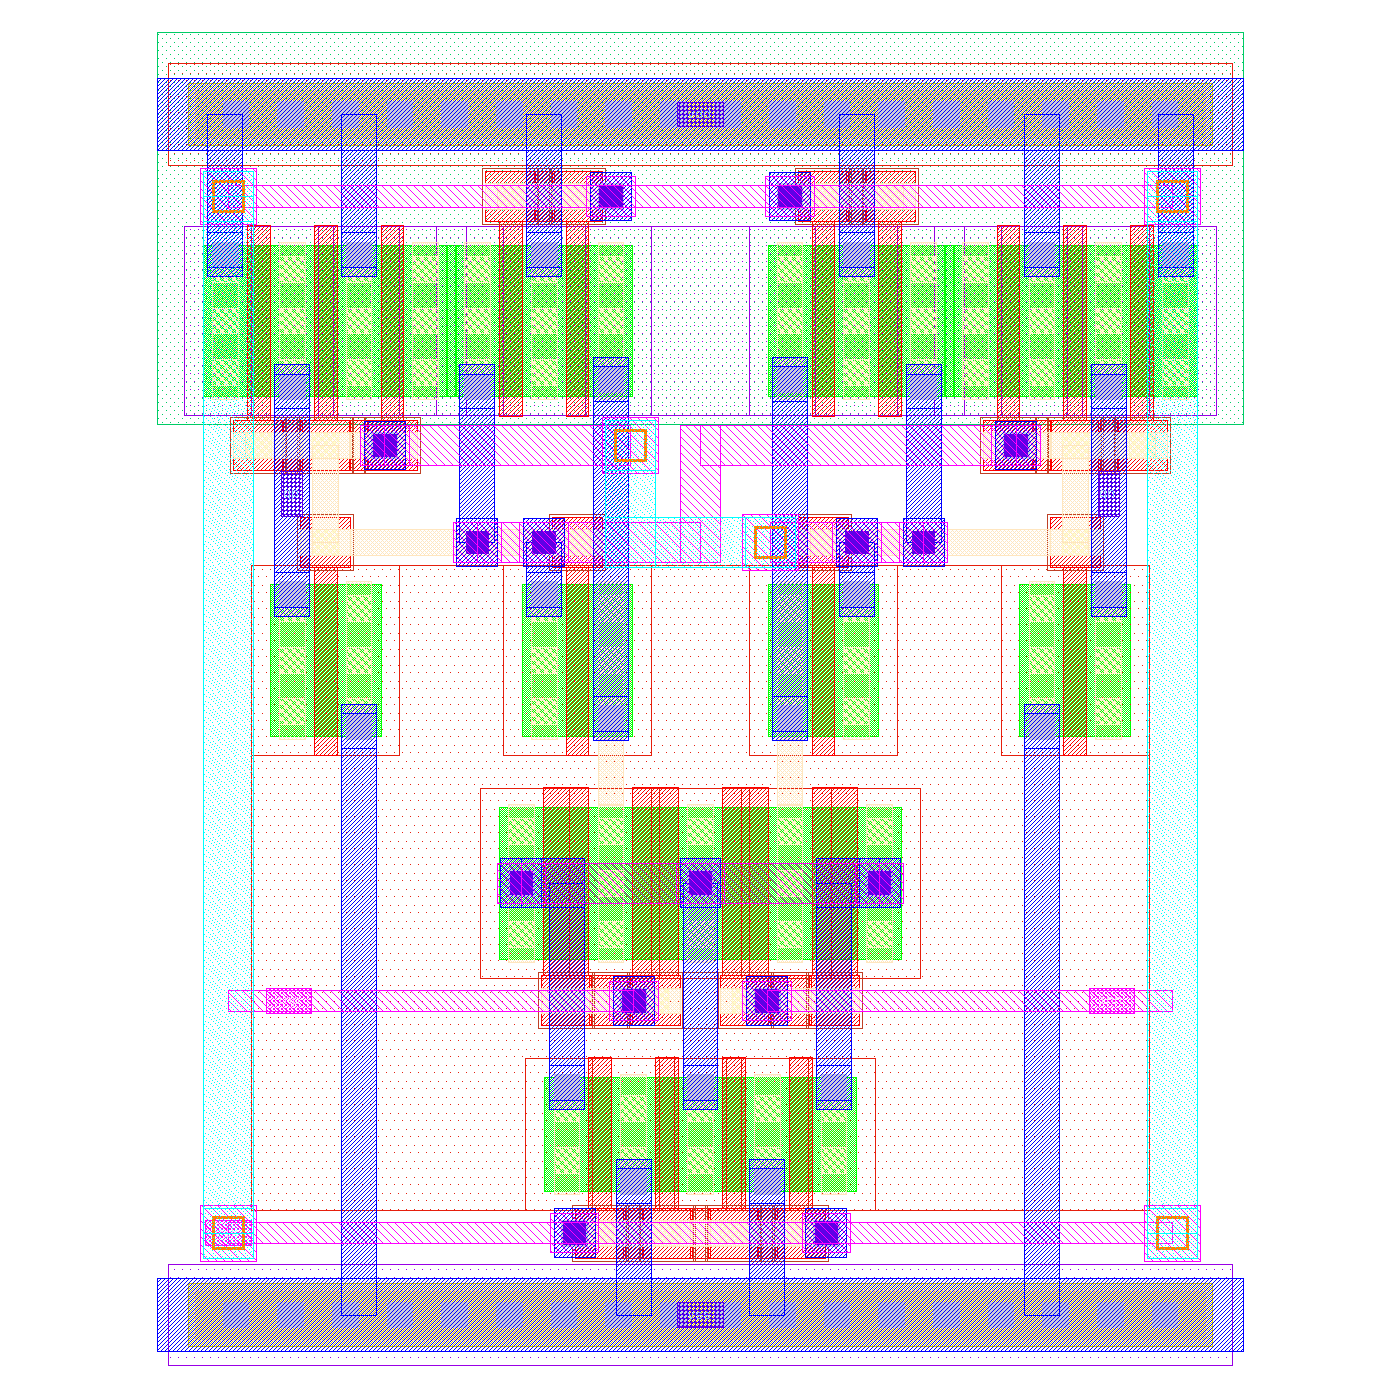
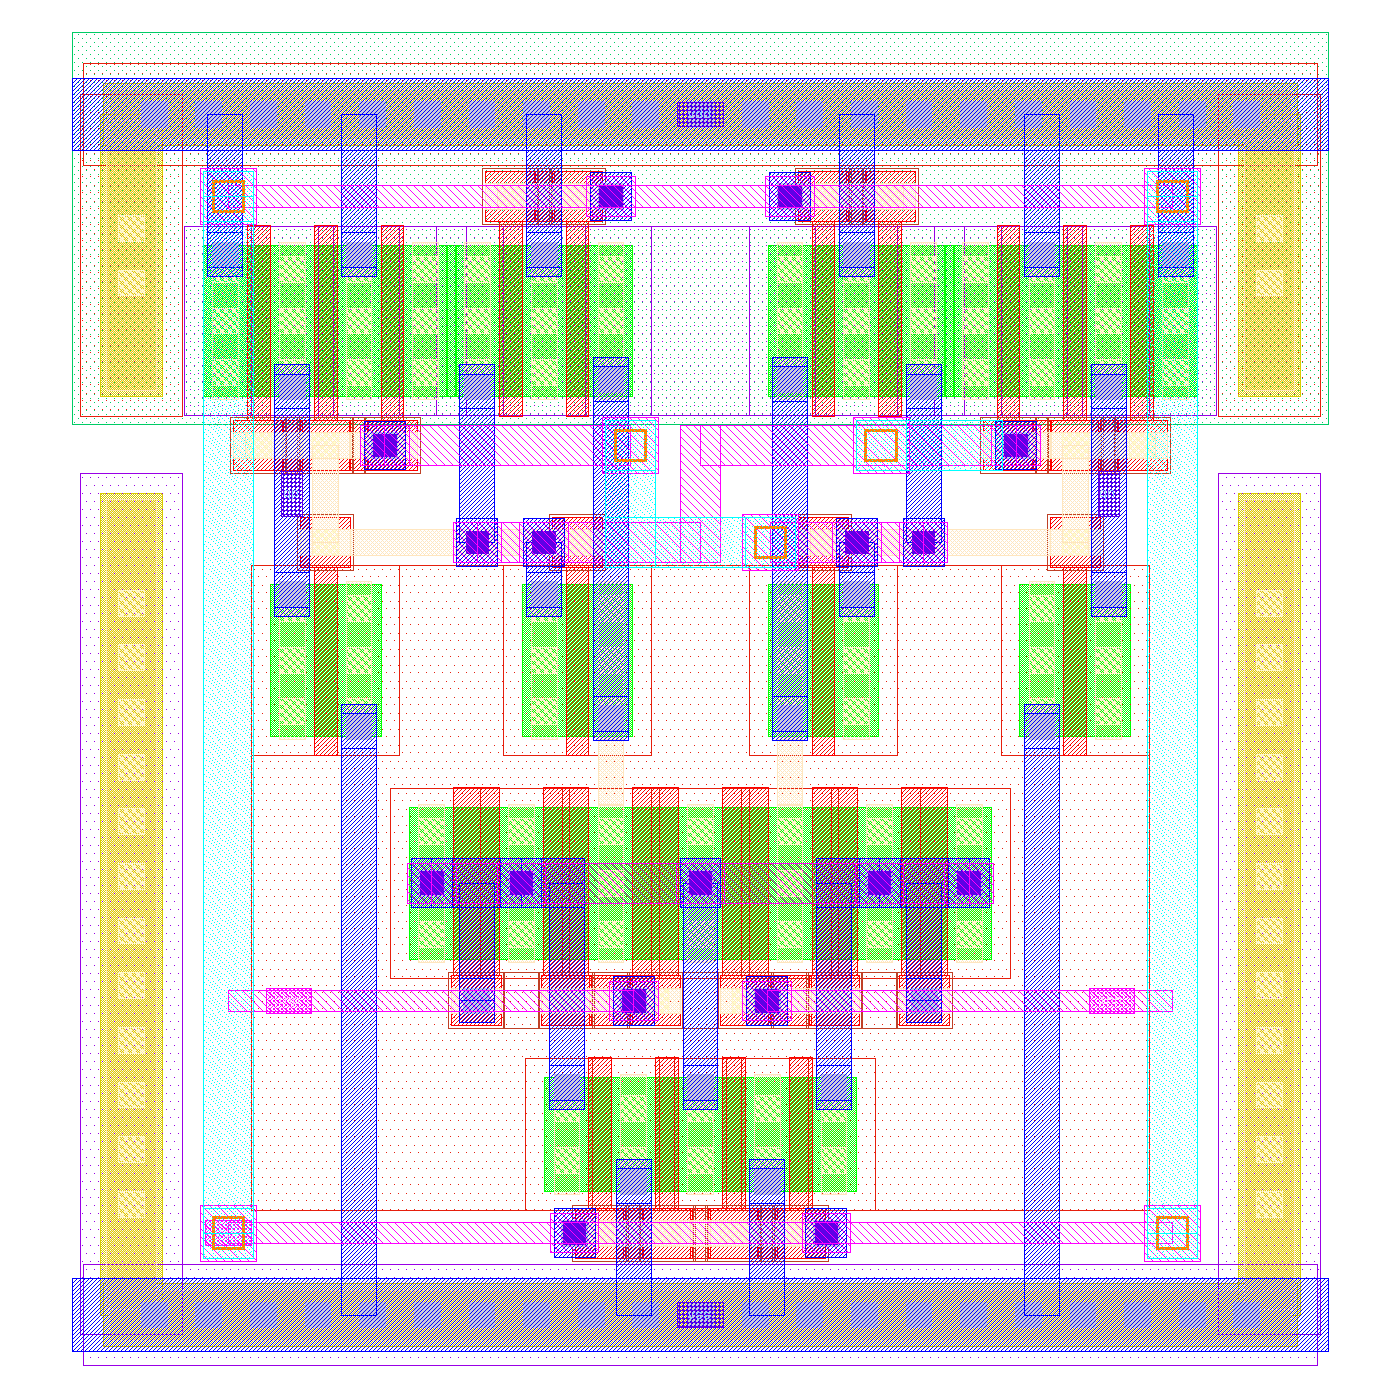
SARGen layout: StrongARM matching refinements (dummies, guard rings, output balance)
- input-pair dummy fingers at both ends (all terminals on tail; in the LVS
  reference)
- p-tap guard stripes beside the NMOS rows, n-tap beside the PMOS row: guard
  rings with the rail tap strips; placed clear of every diffusion and implant
- met3 trim stub on outn balances the output crossing: extracted outp/outn
  4.1 % -> 0.04 % (4-bit), 3.4 % -> 0.12 % (6-bit); xp/xn within 0.4 %
- tap contacts snapped to the 5 nm grid
- 4-bit 8.27 x 8.79 um, 6-bit 9.83 x 8.99 um; DRC 0/0, LVS match
- post-layout 4-bit with extracted CDAC + comparator: ENOB 3.97, DNL 0.037,
  INL 0.033 LSB, 18.5 uW

diff --git a/ISSCC27/submitted_notebooks/SAR_ADC_Generator/sargen/layout/strongarm.py b/ISSCC27/submitted_notebooks/SAR_ADC_Generator/sargen/layout/strongarm.py
@@ -5,7 +5,7 @@
     [Mop1] [vdd Mp1 outn Mr1 vdd Mr3 xp] | mirror   PMOS: latch + reset share diffusion, output inverter outside
     outp / outn tracks, swapped on the axis         cross-coupling with equal parasitics on both outputs
     [Mon1] [outn Mn1 xp]                 | mirror   NMOS latch, output inverter outside
-    tail A xp A tail B xn B tail                    input pair, clustered (each drain an inner diffusion)
+    dmy tail A xp A tail B xn B tail dmy            input pair, clustered (each drain an inner diffusion), dummies
     inp / inn tracks                                inputs leave sideways, away from clk and the outputs
     vss tail vss                                    clocked tail on the symmetry axis
     clk comb + vss rail + p-tap
@@ -14,8 +14,11 @@ Layout rules followed (Razavi, SSC Magazine 2015 / 2020; Hastings, The Art of An
 Sharma et al., DATE 2021): mirror symmetry with the tail and the clock on the axis, so clock and tail charge
 couple equally to both sides; identical drain geometry for the input pair (equal Cgd and node capacitance on
 xp / xn: no dynamic offset), each device clustered rather than common-centroid at this size; all gates in one
-direction; equal routing on the two outputs (the cross-coupling tracks swap on the axis); inputs routed apart
-from the clock and the outputs.  All devices are standard-Vt (the PDK's LVT matches ~1.6x worse).
+direction; equal routing on the two outputs (the cross-coupling tracks swap on the axis, a met3 trim stub
+balances the crossing); inputs routed apart from the clock and the outputs; dummy fingers (all terminals on
+tail) at both ends of the input pair; p-tap guard stripes beside the NMOS rows and n-tap stripes beside the
+PMOS row, closing guard rings with the tap strips under the rails.  All devices are standard-Vt (the PDK's LVT
+matches ~1.6x worse).
 """
 
 import math
@@ -34,10 +37,12 @@ R_NPC_SP = 0.27
 RAIL_W = 0.48           # vss / vdd rails (met1)
 TAP_H, TAP_LI, LICON_P = 0.41, 0.33, 0.36   # tap strip under a rail: tap height, li height, licon / mcon pitch
 R_DIFF_TAP = 0.27
+R_NWELL_PTAP = 0.13 + TAP_H / 2
 M1_STUB = 0.23          # met1 vertical stubs (mcon + 0.03)
 TRK = 0.26              # met2 track width (= via1 pad height, so vias sit flush in a track)
 TRK_IN = 0.14           # inp / inn / clk tracks
 XJ = 0.46               # output tracks swap between x = -XJ and +XJ
+TRIM_L = 0.80           # met3 trim stub on outn: extracted outp / outn within 0.15 % (4- and 6-bit sizing)
 
 
 class Row:
@@ -183,10 +188,12 @@ def strongarm_rows(c):
     # input pair: m fingers each (m even), clustered: tail A xp A tail ... | ... tail B xn B tail
     m = max(2, 2 * round(c["w_in"] / (2 * WF_IN)))
     wi = c["w_in"] / m
-    inp = Row([(f"Mi1.{i}", dev("Mi1", "n", wi, Lin), "inp", "bot", ("tail", "xp")[i % 2], ("xp", "tail")[i % 2])
+    dmy = lambda n: (n, dev("Md", "n", wi, Lin), "tail", "bot", "tail", "tail")   # dummy: all terminals on tail
+    inp = Row([dmy("Md1")] +
+              [(f"Mi1.{i}", dev("Mi1", "n", wi, Lin), "inp", "bot", ("tail", "xp")[i % 2], ("xp", "tail")[i % 2])
                for i in range(m)] +
               [(f"Mi2.{i}", dev("Mi2", "n", wi, Lin), "inn", "bot", ("tail", "xn")[i % 2], ("xn", "tail")[i % 2])
-               for i in range(m)])
+               for i in range(m)] + [dmy("Md2")])
     inp.center()
     x_xp = min(x for x, n, _ in inp.bars("xp"))                   # outermost xp bar of the pair
     # NMOS latch (left): output-inverter NMOS outside, Mn1 with its xp bar above the pair's
@@ -210,7 +217,7 @@ def strongarm_rows(c):
     mon = nl.by["Mon1"]
     assert x_q + mon["fe"].sd <= mon["x"] + 1e-6, "output inverter NMOS cannot sit under its PMOS"
     mon["x"] = x_q + mon["fe"].sd
-    return dict(tail=tail, inp=inp, nl=nl, nr=nl.mirrored(sw), pl=pl, pr=pl.mirrored(sw), sw=sw)
+    return dict(tail=tail, inp=inp, nl=nl, nr=nl.mirrored(sw), pl=pl, pr=pl.mirrored(sw), sw=sw, dummy=(wi, Lin))
 
 
 def build_strongarm(c, name="strongarm"):
@@ -284,15 +291,25 @@ def build_strongarm(c, name="strongarm"):
              max(f["x"] + f["fe"].imp[1] for f, y in fs), max(y + f["dy"] + f["fe"].imp[3] for f, y in fs), lay)
 
     xs = [f["x"] + f["fe"].diff[k] for row in (tail, inp, nl, nr, pl, pr) for f in row.f for k in (0, 1)]
-    x_edge = max(abs(v) for v in xs) + 0.3
-    xr = x_edge - 0.3 - M3_PAD / 2                                  # clk risers (met3), over the outermost devices
+    x_dev = max(abs(v) for v in xs)
+    x_imp = max(abs(f["x"] + f["fe"].imp[k]) for row in (tail, inp, nl, nr, pl, pr) for f in row.f for k in (0, 1))
+    x_ring = max(x_dev + R_DIFF_TAP, x_imp + 0.13) + TAP_H / 2      # guard stripes clear of diffusion and implant
+    x_edge = x_ring + TAP_H / 2 + 0.18                              # n-well encloses the n-tap stripes by 0.18
+    xr = x_dev - M3_PAD / 2                                         # clk risers (met3), over the outermost devices
     X0, X1 = -x_edge, x_edge
 
     # ---------------------------------------------------------------- rails, taps, n-well
     for yr, kind in ((0.0, "p"), (y_vdd, "n")):
         hline(yr + RAIL_W / 2, X0, X1, MET1, RAIL_W)
         _tap_strip(top, X0 + 0.2, X1 - 0.2, yr + RAIL_W / 2, kind)
-    rect(X0, pl.span(yP, "diff", 2) - 0.18, X1, H + 0.3, NWELL)
+    nw0 = pl.span(yP, "diff", 2) - 0.18
+    rect(X0, nw0, X1, H + 0.3, NWELL)
+    # guard rings: p-tap stripes beside the NMOS rows up to the n-well, n-tap stripes beside the PMOS row;
+    # with the tap strips under the rails they ring the NMOS and the PMOS devices
+    for x in (-x_ring, x_ring):
+        p_top = min(nw0 - R_NWELL_PTAP, pl.span(yP, "imp", 2) - R_IMP_SP - 0.13)
+        _tap_strip(top, RAIL_W / 2, p_top, x, "p", vertical=True, margin=TAP_H)
+        _tap_strip(top, nw0 + 0.18, y_vdd + RAIL_W / 2, x, "n", vertical=True, margin=TAP_H)
 
     # ---------------------------------------------------------------- tail: vss down, tail up, clk comb
     for x, n, f in tail.bars("vss"):
@@ -312,6 +329,10 @@ def build_strongarm(c, name="strongarm"):
     for x, n, f in ib:
         v1(x, y_tt)
     hline(y_tt, min(b[0] for b in ib), max(b[0] for b in ib), MET2, TRK)
+    for g in inp.gates("tail"):                                     # input-pair dummies: gate -> tail
+        mcon(g["x"], y_in)
+        vline(g["x"], y_in, y_tt, MET1, M1_STUB)
+        hline(y_tt, g["x"] - g["fe"].sd, g["x"] + g["fe"].sd, MET1, V1_M1[1])
     for x, n, f in tail.bars("tail"):
         mcon(x, bar_y(f, yT, 1) - MC / 2)
         vline(x, bar_y(f, yT, 1) - MC, y_tt, MET1, M1_STUB)
@@ -378,6 +399,12 @@ def build_strongarm(c, name="strongarm"):
     vline(-XJ, y_lo - M3_PAD / 2, y_hi + M3_PAD / 2, MET3, M3_PAD)
     hline(y_lo, -XJ - M3_PAD / 2, XJ + M3_PAD / 2, MET3, M3_PAD)
     vline(0.0, y_lo - TRK / 2, y_hi + TRK / 2, MET2, TRK)          # outn: y_lo (left) -> y_hi (right) on the axis
+    # the crossing puts outp on met3 (and outn on met2) between -XJ and +XJ: a met3 trim stub on outn's
+    # right track balances the two output capacitances (tuned on the extracted layout)
+    if TRIM_L > 0:                                    # (start clear of the xn met1 column)
+        xs0 = max(XJ + M2_PAD + R_M2_SP, nr.bars("xn")[0][0] + 0.6)
+        v2(xs0, y_hi)
+        hline(y_hi, xs0 - M3_PAD / 2, xs0 + TRIM_L, MET3, M3_PAD)
     assert XJ - M2_PAD / 2 - TRK / 2 >= R_M2_SP
 
     # ---------------------------------------------------------------- output inverters: qp / qn met1 columns
@@ -419,19 +446,26 @@ def build_strongarm(c, name="strongarm"):
     top.name = name
     bb = top.bbox
     info = dict(width=float(bb[1][0] - bb[0][0]), height=float(bb[1][1] - bb[0][1]),
-                fingers=dict(tail=len(tail.f), inp=len(inp.f) // 2))
+                fingers=dict(tail=len(tail.f), inp=(len(inp.f) - 2) // 2), dummy=R["dummy"])
     return top, info
 
 
-def _tap_strip(top, xa, xb, yc, kind):
-    """Substrate (p) or n-well (n) tap strip under a met1 rail: tap, licons, li, mcons, implant."""
-    rect = lambda xa_, ya, xb_, yb, lay: _poly(top, xa_, ya, xb_, yb, lay)
+def _tap_strip(top, xa, xb, yc, kind, vertical=False, margin=0.0):
+    """Substrate (p) or n-well (n) tap strip: tap, licons, li, implant (+ mcons to a met1 rail above it).
+    Horizontal from xa to xb at height yc, or vertical (vertical=True) from y = xa to xb at x = yc."""
+    def rect(a0, b0, a1, b1, lay):                  # (along, across) -> layout
+        if vertical:
+            _poly(top, b0, a0, b1, a1, lay)
+        else:
+            _poly(top, a0, b0, a1, b1, lay)
+    xa, xb = min(xa, xb), max(xa, xb)
     rect(xa, yc - TAP_H / 2, xb, yc + TAP_H / 2, TAP)
     rect(xa - 0.13, yc - TAP_H / 2 - 0.13, xb + 0.13, yc + TAP_H / 2 + 0.13, PSDM if kind == "p" else NSDM)
     rect(xa + 0.04, yc - TAP_LI / 2, xb - 0.04, yc + TAP_LI / 2, LI)
-    n = int((xb - xa - 0.24 - MC) / LICON_P) + 1
-    x0 = (xa + xb) / 2 - (n - 1) * LICON_P / 2
+    n = int((xb - xa - 2 * margin - 0.24 - MC) / LICON_P) + 1     # no contacts within margin of the ends
+    x0 = snap((xa + xb) / 2 - (n - 1) * LICON_P / 2)              # contacts on the 5 nm grid
     for i in range(n):
         x = x0 + i * LICON_P
         rect(x - MC / 2, yc - MC / 2, x + MC / 2, yc + MC / 2, LICON)
-        rect(x - MC / 2, yc - MC / 2, x + MC / 2, yc + MC / 2, MCON)
+        if not vertical:
+            rect(x - MC / 2, yc - MC / 2, x + MC / 2, yc + MC / 2, MCON)

diff --git a/ISSCC27/submitted_notebooks/SAR_ADC_Generator/run_layout.py b/ISSCC27/submitted_notebooks/SAR_ADC_Generator/run_layout.py
@@ -42,7 +42,12 @@ def do_comparator(bits, out):
     comp.write_gds(gds)
     info["gen_s"] = time.time() - t0
     ref = out / "strongarm_ref.spice"
-    ref.write_text(nl.strongarm_subckt(design["cmp"]) + "\n")
+    from sargen.pdk import NFET, mos
+    w, l = info["dummy"]                         # input-pair dummies (all terminals on tail) are in the layout
+    sub = nl.strongarm_subckt(design["cmp"]).replace(
+        ".ends strongarm", "\n".join(mos(f"Md{i}", "tail", "tail", "tail", "vss", NFET, w, l) for i in (1, 2))
+        + "\n.ends strongarm")
+    ref.write_text(sub + "\n")
     print(f"generated {gds} in {info['gen_s']:.1f} s: {info['width']:.2f} x {info['height']:.2f} um, "
           f"fingers {info['fingers']}")
     return gds, ref, "strongarm", info

diff --git a/ISSCC27/submitted_notebooks/SAR_ADC_Generator/results/4bit/layout/prepost.md b/ISSCC27/submitted_notebooks/SAR_ADC_Generator/results/4bit/layout/prepost.md
@@ -1,8 +1,8 @@
 | metric | schematic | extracted CDAC | extracted comparator | extracted CDAC + comparator | extracted switches | all blocks extracted | compact CDAC+switches | compact CDAC+switches + comparator | unit-cell CDAC | unit-cell CDAC + comparator |
 |---|---|---|---|---|---|---|---|---|---|---|
-| ENOB [bit] | 3.957 | 3.981 | 3.971 | 3.978 | 3.972 | 3.997 | 3.906 | 3.933 | 3.961 | 3.972 |
-| max DNL [LSB] | 0.063 | 0.104 | 0.063 | 0.029 | 0.070 | 0.037 | 0.137 | 0.070 | 0.104 | 0.070 |
-| max INL [LSB] | 0.081 | 0.100 | 0.033 | 0.017 | 0.066 | 0.045 | 0.133 | 0.057 | 0.100 | 0.066 |
-| offset [LSB] | -0.122 | -0.122 | -0.056 | -0.022 | -0.089 | 0.011 | -0.056 | 0.044 | -0.122 | -0.089 |
-| gain error [LSB] | -0.021 | -0.055 | -0.055 | -0.021 | -0.055 | -0.021 | -0.287 | -0.254 | -0.055 | -0.055 |
-| power [uW] | 13.929 | 14.677 | 14.978 | 22.477 | 17.022 | 25.572 | 19.901 | 27.691 | 17.164 | 18.251 |
+| ENOB [bit] | 3.957 | 3.981 | 3.987 | 3.978 | 3.972 | 3.997 | 3.906 | 3.933 | 3.961 | 3.972 |
+| max DNL [LSB] | 0.063 | 0.104 | 0.037 | 0.029 | 0.070 | 0.037 | 0.137 | 0.070 | 0.104 | 0.037 |
+| max INL [LSB] | 0.081 | 0.100 | 0.047 | 0.017 | 0.066 | 0.045 | 0.133 | 0.057 | 0.100 | 0.033 |
+| offset [LSB] | -0.122 | -0.122 | -0.089 | -0.022 | -0.089 | 0.011 | -0.056 | 0.044 | -0.122 | -0.056 |
+| gain error [LSB] | -0.021 | -0.055 | -0.021 | -0.021 | -0.055 | -0.021 | -0.287 | -0.254 | -0.055 | -0.055 |
+| power [uW] | 13.929 | 14.677 | 15.209 | 22.477 | 17.022 | 25.572 | 19.901 | 27.691 | 17.164 | 18.468 |
